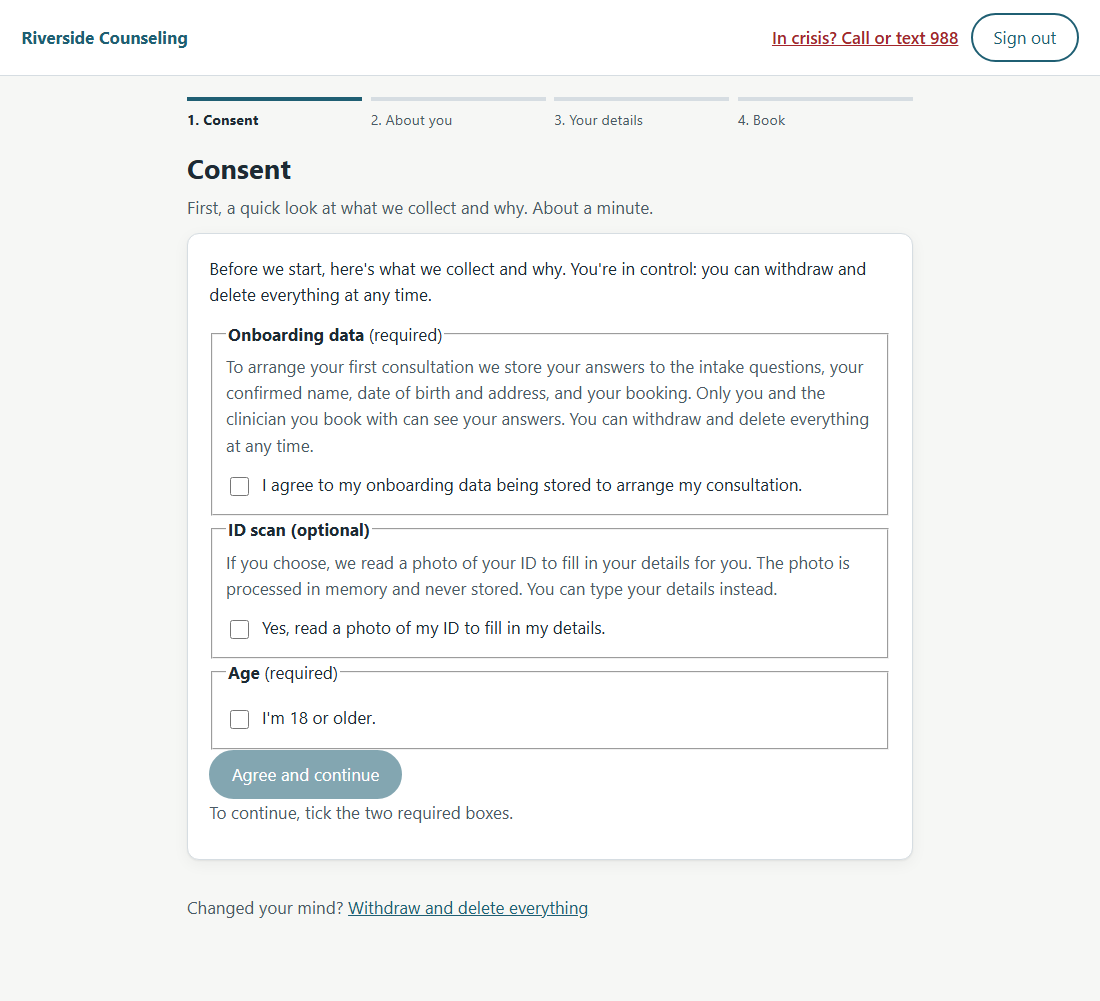
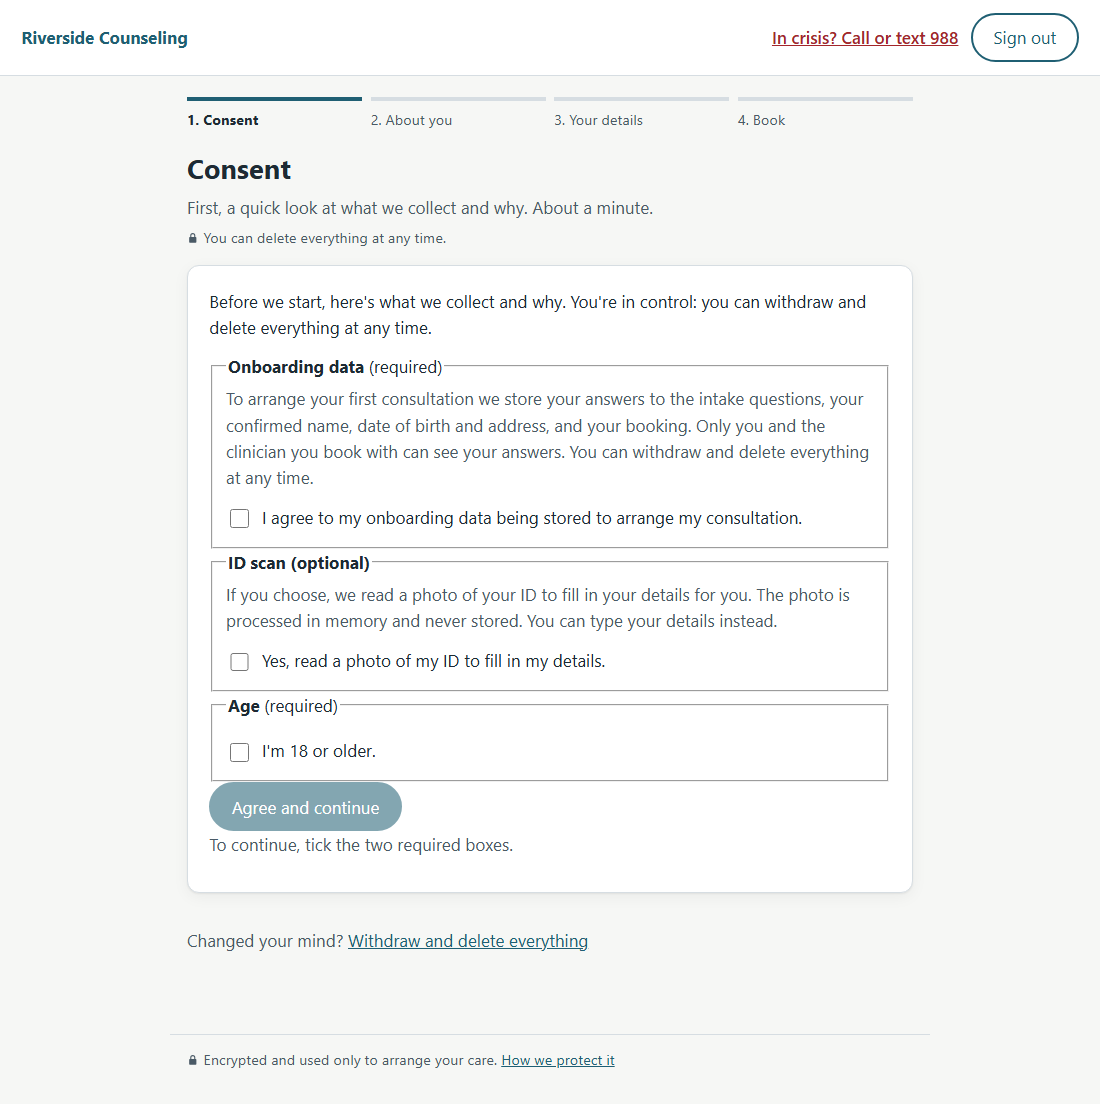
Docs: issue log 004-006, privacy lines and CI-on in README, refreshed screenshots, AI log

diff --git a/docs/ISSUE_LOG.md b/docs/ISSUE_LOG.md
@@ -8,3 +8,6 @@ Each fix site carries a comment with the issue id.
 | ISSUE-001 | Inspecting Supabase's `auth.audit_log_entries` after a Withdrawal on the real local stack | Sign-up and deletion events, with the user's email and IP, survived "delete everything" while the receipt said they were gone | Deletion matched `payload.actor_id` only; GoTrue names the affected user in `payload.traits.user_id`, with the system as actor | Match `actor_id` **or** `traits.user_id`; runs after the auth user is deleted so the deletion event is caught too | `backend/tests/test_postgres_withdrawal.py` (`pytest -m postgres` with `TEST_POSTGRES_URL`) | `9cadd97` |
 | ISSUE-002 | k6 load test (20 VUs, 60 s) | 1 in 500 requests failed before reaching the app | uvicorn's 5 s keep-alive vs. 2–5 s client pauses: a reused connection was being closed as a request was sent | `--timeout-keep-alive 75` | k6 threshold `http_req_failed < 1%`; rerun: 0% | `7281952` |
 | ISSUE-003 | Walking the real UI in headless Chromium | Intake crashed into the error boundary right after consent | Expression-bodied effects returned the Promise that current Chromium's `scrollIntoView()`/`focus()` return; React called it as a cleanup | Block bodies for every effect | `frontend/src/test/effects.test.tsx` | `3de810b` |
+| ISSUE-004 | Walking the UI on real Claude Haiku | "mostly anxiety honestly, the last few months" failed the whole turn ("having trouble") | Claude returned a valid category plus an invented duration `3_6_months`; one invalid value rejected the whole result | Validate each extracted value alone: drop invalid ones (never saved), keep valid ones; prompt asks for exact allowed values | `test_intake.py::test_invalid_extracted_values_are_dropped_and_valid_ones_kept` | `9444c4f` |
+| ISSUE-005 | Same walk, scripted fallback; and while writing its test | "mostly anxiety" didn't match "Anxiety or worry"; "anxiety and grief and sleep" was recorded as "sleep" | Matching used full labels only and took the first label hit | Match full label or the option's own key words; accept a choice only when exactly one option matches | `test_intake.py::test_scripted_mode_matches_option_words_without_guessing` | `204ffff` |
+| ISSUE-006 | Reading the walk's screenshot on real Claude | Assistant said "…something we can definitely help with" — a promise of outcome | Output check had no patterns for certainty about helping, fixing or recovery | Block "definitely help/fix/cure", "will fix/cure/solve", "will feel/get better", "help you get better" | `test_domain_pure.py` BLOCKED/BENIGN tables | `a2adffa` |

diff --git a/README.md b/README.md
@@ -114,6 +114,11 @@ Then `make up` again, and `make eval` for the intent scorecard on that model.
   AI quality, the onboarding funnel (drop-off and time per step) and how often Clients
   correct each field the ID reader filled in — with no individual's data.
 
+- **Quiet privacy reassurance.** Each Step carries one short, true line ("Your ID photo is
+  never stored. Your details are encrypted."), and a footer — "Encrypted and used only to
+  arrange your care" — opens a short explanation on request. No compliance claims are made
+  to Clients; see [Privacy and compliance](#privacy-and-compliance).
+
 Screenshots: [docs/screenshots](docs/screenshots).
 
 ---
@@ -253,9 +258,9 @@ Docs index: [PRD](docs/PRD.md) · [Users](docs/USERS.md) · [Architecture](docs/
 ## CI, hooks and deploy (GitLab)
 
 - **CI:** [.gitlab-ci.yml](.gitlab-ci.yml) runs lint → tests with an 80% coverage gate →
-  image build → deploy. Gauntlet's GitLab has no shared runners, so the pipeline targets a
-  self-registered project runner and stays dormant until the `CI_ENABLED=true` CI/CD
-  variable is set.
+  image build → deploy on every push. Gauntlet's GitLab has no shared runners, so it runs
+  on a self-registered project runner (GitLab Runner in Docker, tag `rs-assist-local`);
+  `CI_ENABLED=true` switches it on. Deploy runs once a `RAILWAY_TOKEN` variable exists.
 - **Pre-push hook:** [.githooks/pre-push](.githooks/pre-push) runs `make ci`; switch it on
   with `make hooks`.
 - **Deploy limitation:** Railway's push-to-deploy integration supports GitHub only. With

diff --git a/docs/AI_LOG.md b/docs/AI_LOG.md
@@ -50,8 +50,17 @@ and what a human decided. Tools and models used inside the product are in
   default, both reports kept for discussion.
 - k6 against real Haiku at 20 users × 60 s: chat p95 2.28 s, 0% failed, 0 LLM errors.
 
+## 2026-10-17 — Privacy lines, CI on, real-Claude fixes
+
+- **Human decided:** short per-Step privacy lines plus a footer (option A), kept subtle;
+  no "HIPAA compliant" claim (agent advised it would be untrue and risky).
+- Agent pushed to GitLab, created a project runner via the API, ran GitLab Runner in Docker,
+  set `CI_ENABLED`; fixed two CI setup errors (image tag, dind TLS); pipeline green.
+- Walking the UI on real Claude found ISSUE-004/005/006 (invalid value failed the turn,
+  scripted matching, an outcome promise passing the output check); fixed test-first.
+
 ## Not done by the agent (needs the human)
 
 - **Deployment:** Railway is logged in but no project is linked, and the hosted Supabase
   keys and pooler URL weren't available. Steps in [DEPLOY.md](DEPLOY.md).
-- **Push to GitLab, enabling CI and the hook, the demo video.**
+- **Enabling the pre-push hook (`make hooks`) and the demo video.** (Pushed and CI on: done.)

diff --git a/CLAUDE.md b/CLAUDE.md
@@ -49,7 +49,9 @@ The stack is open (justify in README) but these are fixed by the brief:
 Built and verified locally (see docs/AI_LOG.md, docs/ISSUE_LOG.md). Open items that need
 the user: real-model intent eval (`LLM_PROVIDER=anthropic make eval` — no key on this
 machine), Railway deploy (project not linked; hosted Supabase keys needed — docs/DEPLOY.md),
-pushing to GitLab, enabling CI (`CI_ENABLED`) and the hook (`make hooks`), demo video.
+the pre-push hook (`make hooks`), demo video. Pushed to GitLab; CI is ON (project runner
+`rs-assist-runner` in local Docker, tag rs-assist-local; CI_ENABLED=true) — jobs run only
+while this machine's Docker is up.
 Dashboard layer 2 (funnel + OCR corrections) built 2026-10-17. Not built: stretch #6,
 stretch #5 — listed in the README.
 Bug fixes follow the Issue/Root cause/Fix/Test commit format; log them in docs/ISSUE_LOG.md.
